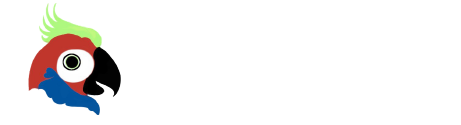
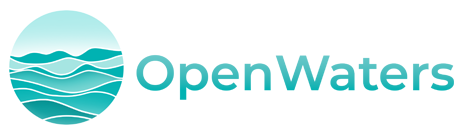
haha

Changed region(s): [[0.0, 0.024, 1.0, 0.96]]

diff --git a/src/components/Hero.jsx b/src/components/Hero.jsx
@@ -24,7 +24,7 @@ const Hero = () => {
        
 
         <div class="flex mt-4 space-x-3 md:mt-6">
-        <a href="https://twitter.com/nftmoondogs" target="_blank" rel="noreferrer" class=" w-[240px] items-center py-2 px-4 text-sm font-medium text-center text-white bg-blue-700 rounded-lg hover:bg-blue-800 focus:ring-4 focus:outline-none focus:ring-blue-300 dark:bg-blue-600 dark:hover:bg-blue-700 dark:focus:ring-blue-800">Twitter</a>
+        <a href="https://twitter.com/wooflabs" target="_blank" rel="noreferrer" class=" w-[240px] items-center py-2 px-4 text-sm font-medium text-center text-white bg-blue-700 rounded-lg hover:bg-blue-800 focus:ring-4 focus:outline-none focus:ring-blue-300 dark:bg-blue-600 dark:hover:bg-blue-700 dark:focus:ring-blue-800">Twitter</a>
         </div>
         
         
@@ -35,17 +35,17 @@ const Hero = () => {
         <div class="flex mt-4 space-x-3 md:mt-6">
         <a href="https://t.me/+VHe4vxSP0kA0MmFl" target="_blank" rel="noreferrer" class=" w-[240px] items-center py-2 px-4 text-sm font-medium text-center text-white bg-blue-700 rounded-lg hover:bg-blue-800 focus:ring-4 focus:outline-none focus:ring-blue-300 dark:bg-blue-600 dark:hover:bg-blue-700 dark:focus:ring-blue-800">Telegram</a>
         </div>
-
-        <div class="flex mt-4 space-x-3 md:mt-6">
-        <a href="https://app.youngparrotnft.com/core/collections/moondogs#Items" target="_blank" rel="noreferrer" class=" w-[240px] items-center py-2 px-4 text-sm font-medium text-center text-white bg-yellow-700 rounded-lg hover:bg-yellow-800 focus:ring-4 focus:outline-none focus:ring-yellow-300 dark:bg-yellow-600 dark:hover:bg-yellow-700 dark:focus:ring-yellow-800">Buy Moondogs from Young Parrots</a>
+       
+       <div class="flex mt-4 space-x-3 md:mt-6">
+        <a href="https://shadowswap.xyz/swap?outputCurrency=0x5C44d3D2312AbA4d5F2406A98Bf374Bc76455092&inputCurrency=CORE" target="_blank" rel="noreferrer" class=" w-[240px] items-center py-2 px-4 text-sm font-medium text-center text-white bg-yellow-700 rounded-lg hover:bg-yellow-800 focus:ring-4 focus:outline-none focus:ring-yellow-300 dark:bg-yellow-600 dark:hover:bg-yellow-700 dark:focus:ring-yellow-800">Buy WOOF on ShadowSwap</a>
         </div>
 
         <div class="flex mt-4 space-x-3 md:mt-6">
         <a href="https://icecreamswap.com/swap?chainId=1116&outputCurrency=0x5C44d3D2312AbA4d5F2406A98Bf374Bc76455092&inputCurrency=CORE" target="_blank" rel="noreferrer" class=" w-[240px] items-center py-2 px-4 text-sm font-medium text-center text-white bg-yellow-700 rounded-lg hover:bg-yellow-800 focus:ring-4 focus:outline-none focus:ring-yellow-300 dark:bg-yellow-600 dark:hover:bg-yellow-700 dark:focus:ring-yellow-800">Buy WOOF on IceCreamSwap</a>
         </div>
-       
-       <div class="flex mt-4 space-x-3 md:mt-6">
-        <a href="https://shadowswap.xyz/swap?outputCurrency=0x5C44d3D2312AbA4d5F2406A98Bf374Bc76455092&inputCurrency=CORE" target="_blank" rel="noreferrer" class=" w-[240px] items-center py-2 px-4 text-sm font-medium text-center text-white bg-yellow-700 rounded-lg hover:bg-yellow-800 focus:ring-4 focus:outline-none focus:ring-yellow-300 dark:bg-yellow-600 dark:hover:bg-yellow-700 dark:focus:ring-yellow-800">Buy WOOF on ShadowSwap</a>
+
+        <div class="flex mt-4 space-x-3 md:mt-6">
+        <a href="https://www.openwaters.uk/" target="_blank" rel="noreferrer" class=" w-[240px] items-center py-2 px-4 text-sm font-medium text-center text-white bg-yellow-700 rounded-lg hover:bg-yellow-800 focus:ring-4 focus:outline-none focus:ring-yellow-300 dark:bg-yellow-600 dark:hover:bg-yellow-700 dark:focus:ring-yellow-800">OpenWaters NFT Marketplace</a>
         </div>
 
     </div>

diff --git a/src/components/Testimonials.jsx b/src/components/Testimonials.jsx
@@ -13,10 +13,12 @@ const Billing = () => (
 </div>
 
 <div className={`${layout.sectionInfo} sm:flex drop-shadow-2xl sm:pt-52 sm:pb-0 sm:pr-32`}>
-  <h2 className={`${styles.heading4}`}>YoungParrot Marketplace</h2>
+  <h2 className={`${styles.heading4}`}>OpenWaters is The best NFT Marketplace on CoreDAO Blockchain for everyone by 
+WOOF LABS OpenWaters is powered by our $WOOF token.
+</h2>
   <p className={`${styles.paragraph2} pt-6 sm:pb-96 pt-0.5`}>
-  We have partnered with one of the best NFT Marketplace on CoreDAO and will be launching Moondogs through their LaunchPad so that our community members gets the best minting exprience possible.<div className={` pt-4 w-full  flex w-[100%] h-[100%]`}>
-<a href="https://app.youngparrotnft.com/core" target="_blank" rel="noreferrer"><button type="button" class="text-yellow-400 hover:text-white border justify-center flex object-center border-yellow-400 hover:bg-yellow-500 focus:ring-4 focus:outline-none focus:ring-yellow-300 font-medium rounded-lg text-sm px-5 py-2.5 text-center mr-2 mb-2 dark:border-yellow-300 dark:text-yellow-300 dark:hover:text-white dark:hover:bg-yellow-400 dark:focus:ring-yellow-900">Visit YoungParrot Marketplace</button></a>
+  OpenWaters<div className={` pt-4 w-full  flex w-[100%] h-[100%]`}>
+<a href="https://www.openwaters.uk/" target="_blank" rel="noreferrer"><button type="button" class="text-yellow-400 hover:text-white border justify-center flex object-center border-yellow-400 hover:bg-yellow-500 focus:ring-4 focus:outline-none focus:ring-yellow-300 font-medium rounded-lg text-sm px-5 py-2.5 text-center mr-2 mb-2 dark:border-yellow-300 dark:text-yellow-300 dark:hover:text-white dark:hover:bg-yellow-400 dark:focus:ring-yellow-900">Visit OpenWaters NFT Marketplace</button></a>
 </div>
   </p>
 

diff --git a/src/components/Navigation.jsx b/src/components/Navigation.jsx
@@ -7,7 +7,7 @@ const CardDeal = () => (
 <div className={`${layout.sectionInfo} drop-shadow-2xl sm:pt-52 sm:pb-0 sm:pl-32`}>
   <h2 className={`${styles.heading4}`}>$WOOF</h2>
   <p className={`${styles.paragraph} pt-6 sm:pb-96 pt-0.5`}>
-  WOOF token is used to empower Moondogs decentralized ecosystem building at the forefront of web3 on CoreDao Blockchain <div className={` pt-4 w-full flex w-[100%] h-[100%]`}>
+  WOOF token is used to empower WOOFLABS decentralized ecosystem building at the forefront of web3 on CoreDao Blockchain and is also used in our OpenWaters NFT Marketplace to buy and sale NFTs <div className={` pt-4 w-full flex w-[100%] h-[100%]`}>
 <a href="https://www.geckoterminal.com/core/pools/0x00cfc5acb409c962737999c2d3951fda09eda00b" target="_blank" rel="noreferrer"><button type="button" class="text-yellow-400 hover:text-white border justify-center flex object-center border-yellow-400 hover:bg-yellow-500 focus:ring-4 focus:outline-none focus:ring-yellow-300 font-medium rounded-lg text-sm px-5 py-2.5 text-center mr-2 mb-2 dark:border-yellow-300 dark:text-yellow-300 dark:hover:text-white dark:hover:bg-yellow-400 dark:focus:ring-yellow-900">See on GeckoTerminal</button></a>
 
 </div>

diff --git a/src/components/Footer.jsx b/src/components/Footer.jsx
@@ -7,7 +7,7 @@ const Footer = () => (
    
     <div className="w-full flex justify-between items-center md:flex-row flex-col pt-6 pb-15 ">
       <p className="font-poppins font-normal text-center text-[18px] leading-[27px] text-white pb-6">
-        Copyright Ⓒ 2023 Moondogs. All Rights Reserved.
+        Copyright Ⓒ 2023 WOOFLabs. All Rights Reserved.
       </p>
 
       <div className="flex flex-row md:mt-0 mt-6 pb-6">
